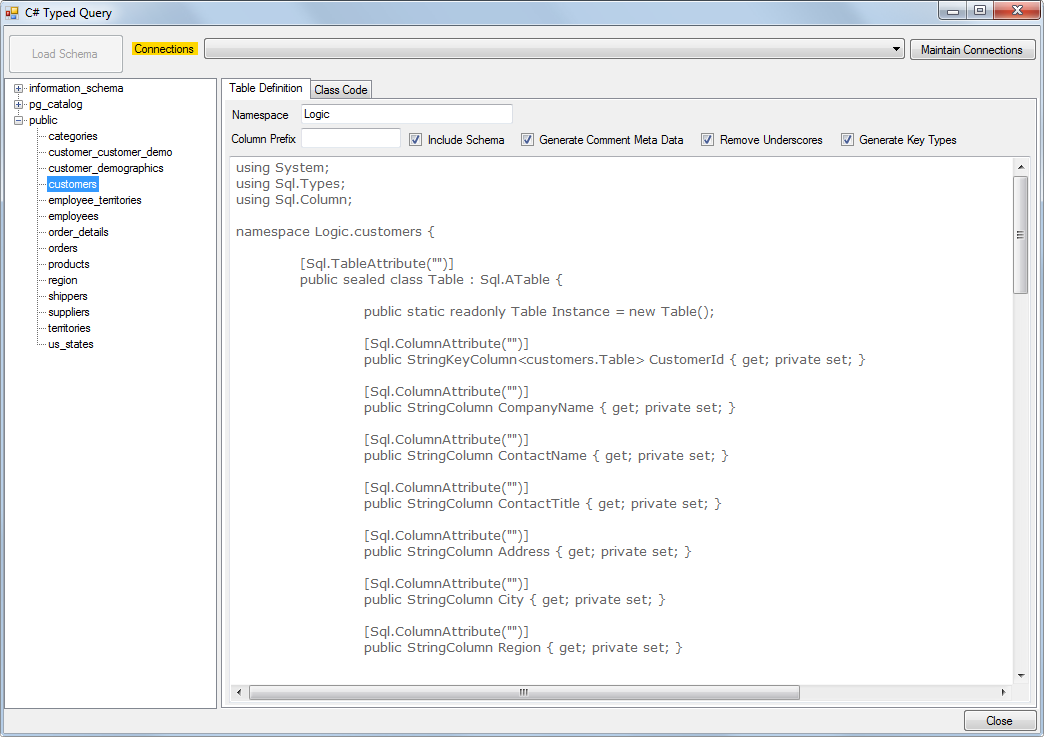
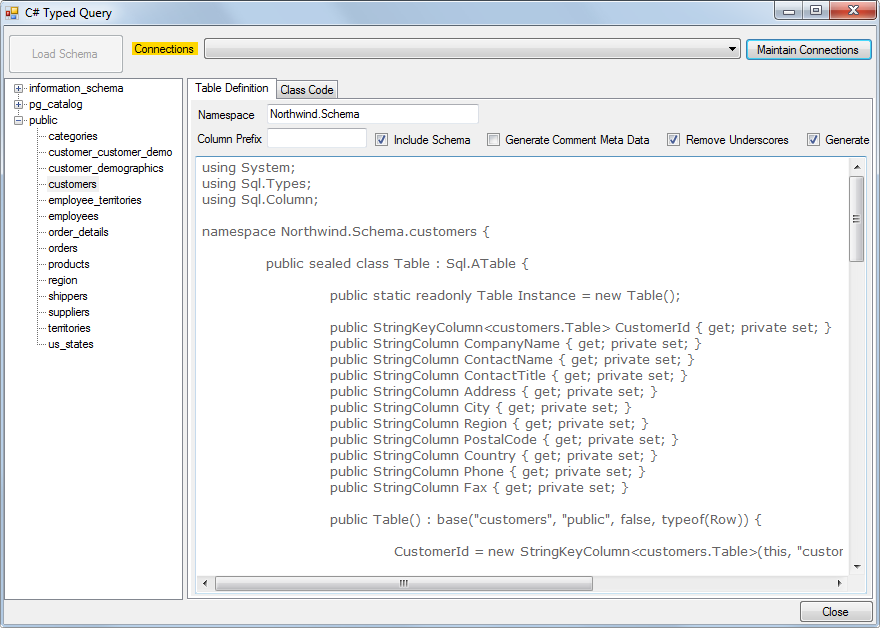
Update readme file.

Changed region(s): [[0.0, 0.0, 1.0, 0.9984]]

diff --git a/README.md b/README.md
@@ -70,9 +70,9 @@ Sql.Query.Select(userTable.Id)
      ).Execute(MyDatabase.Instance);
 ```
 
-## Table Generator
+## Code Generator
 
-TQ has a tool to generate schema definitions.
+TQ has a tool to generate C# schema definitions.
 
 ![Alt Text](https://raw.githubusercontent.com/EndsOfTheEarth/Typed-Query/master/Images/CodeDefinitionGenerator.png)
 ## Licensing
